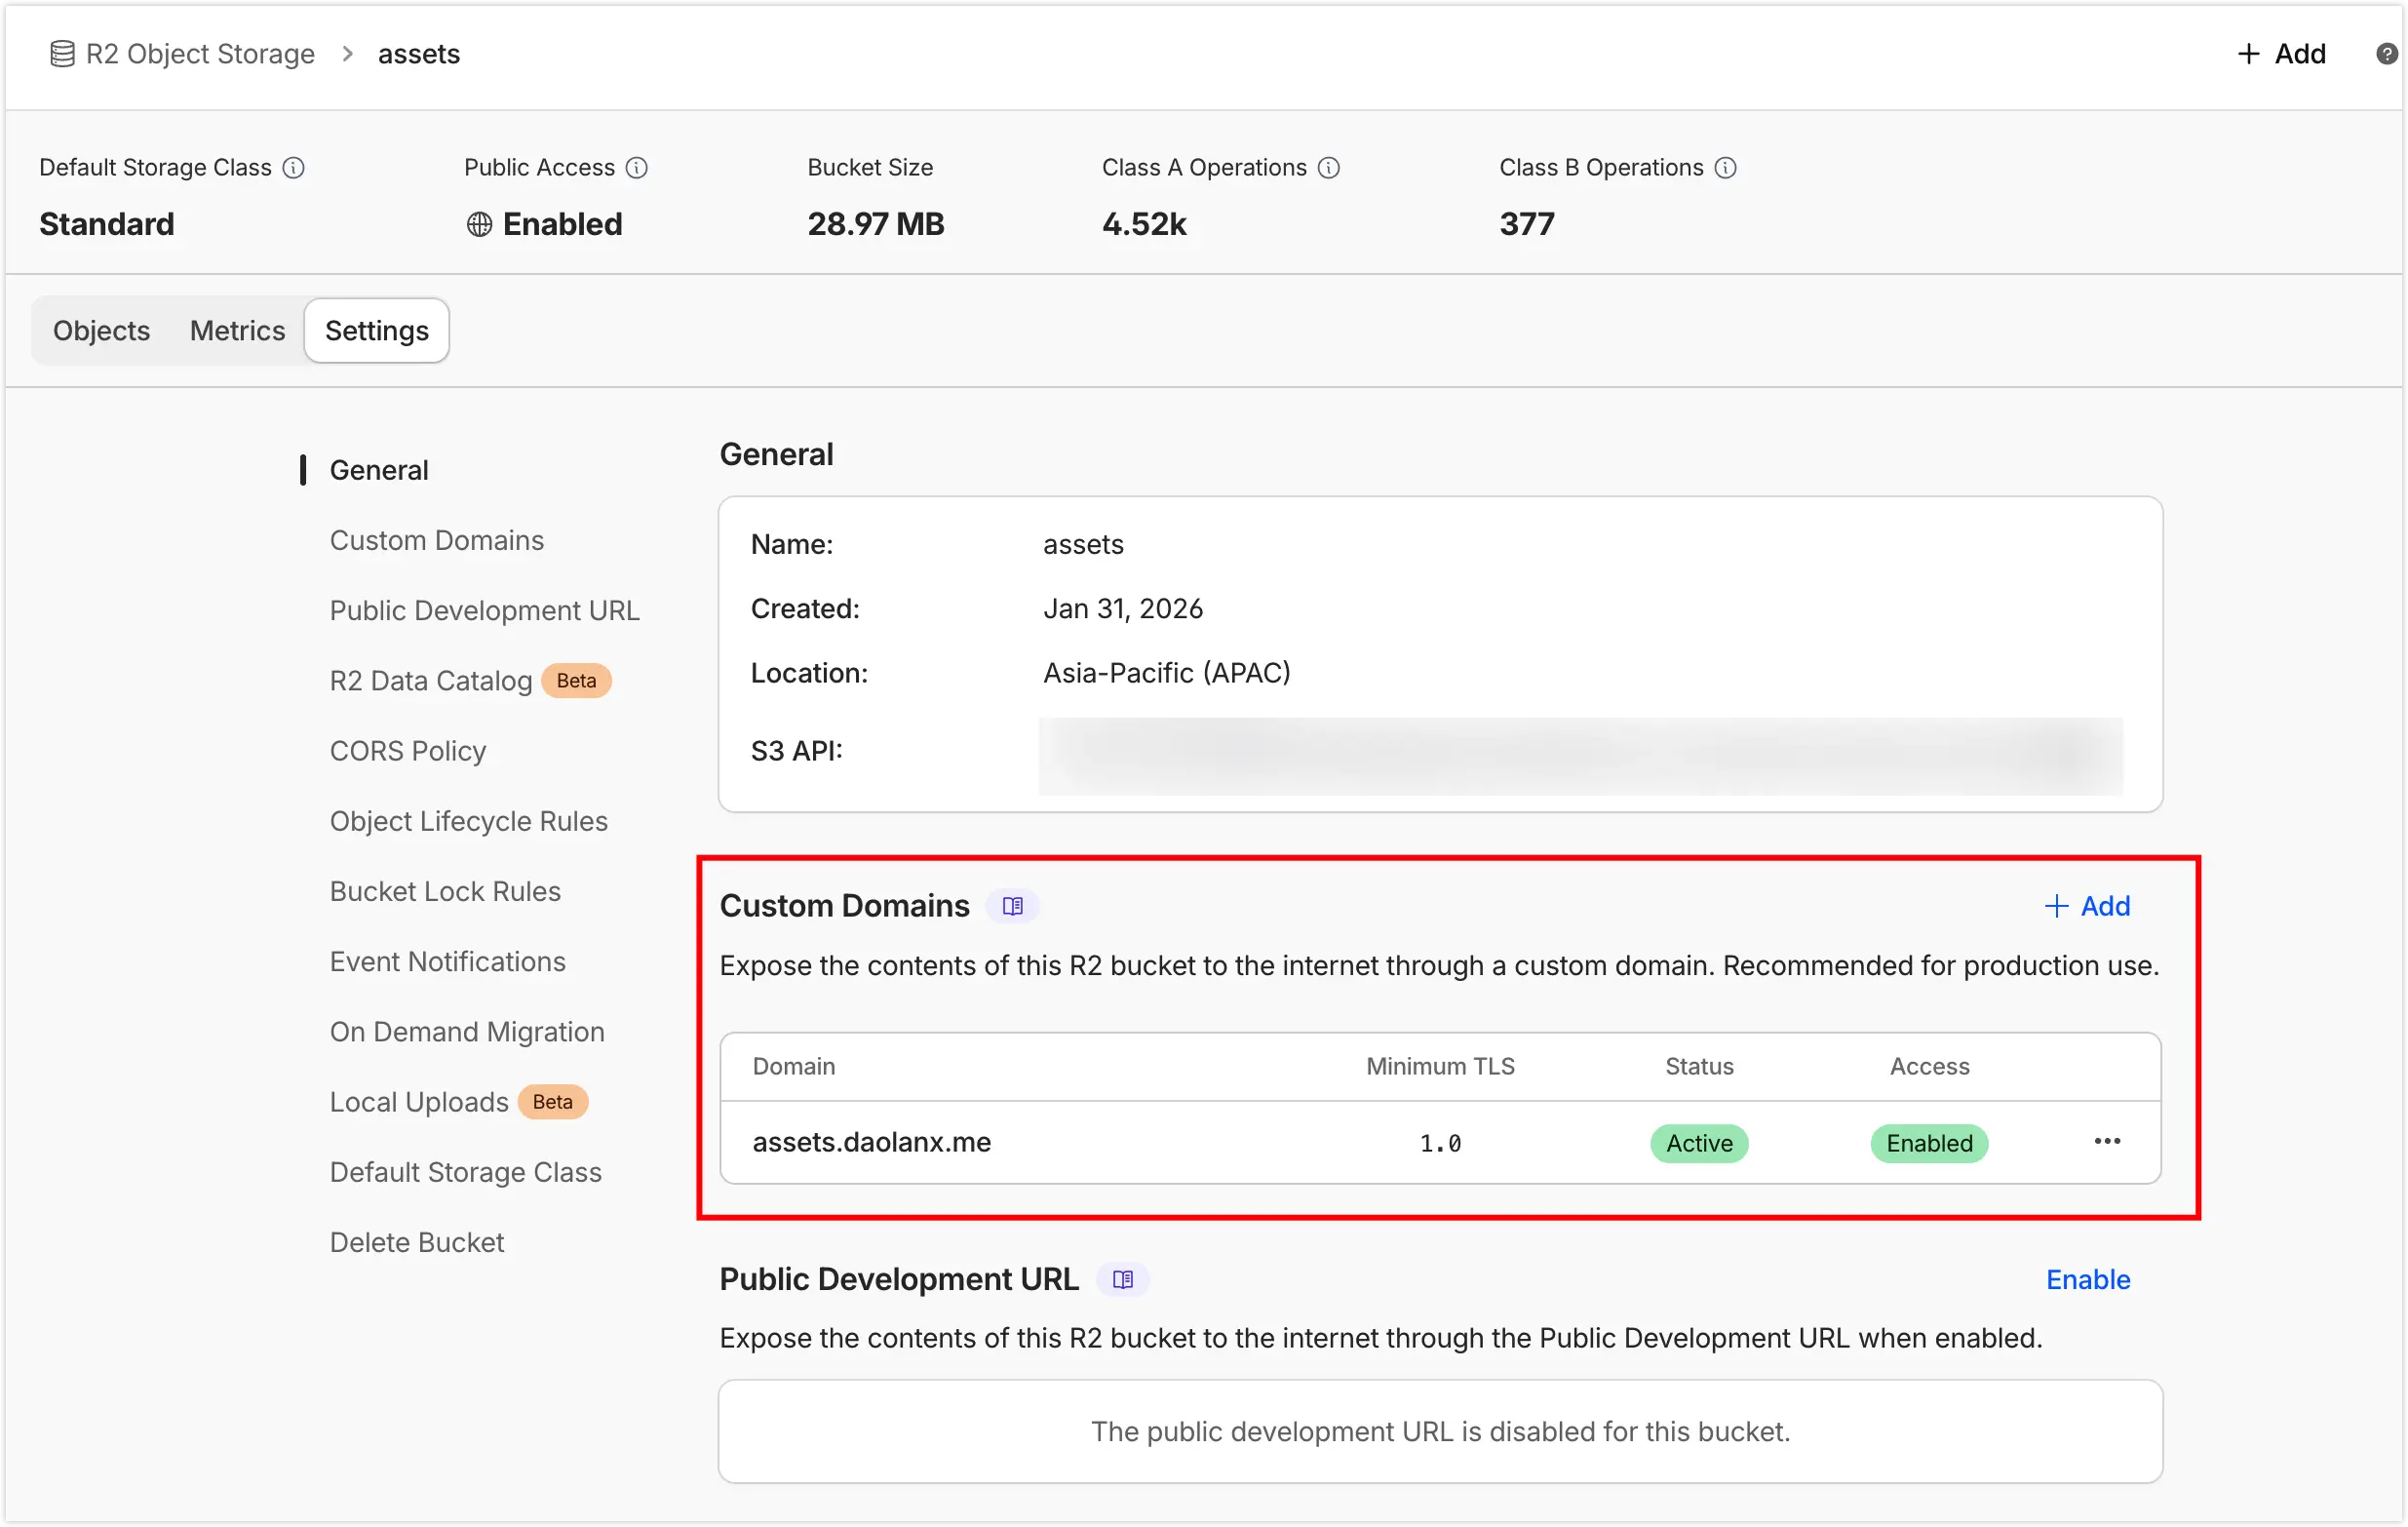
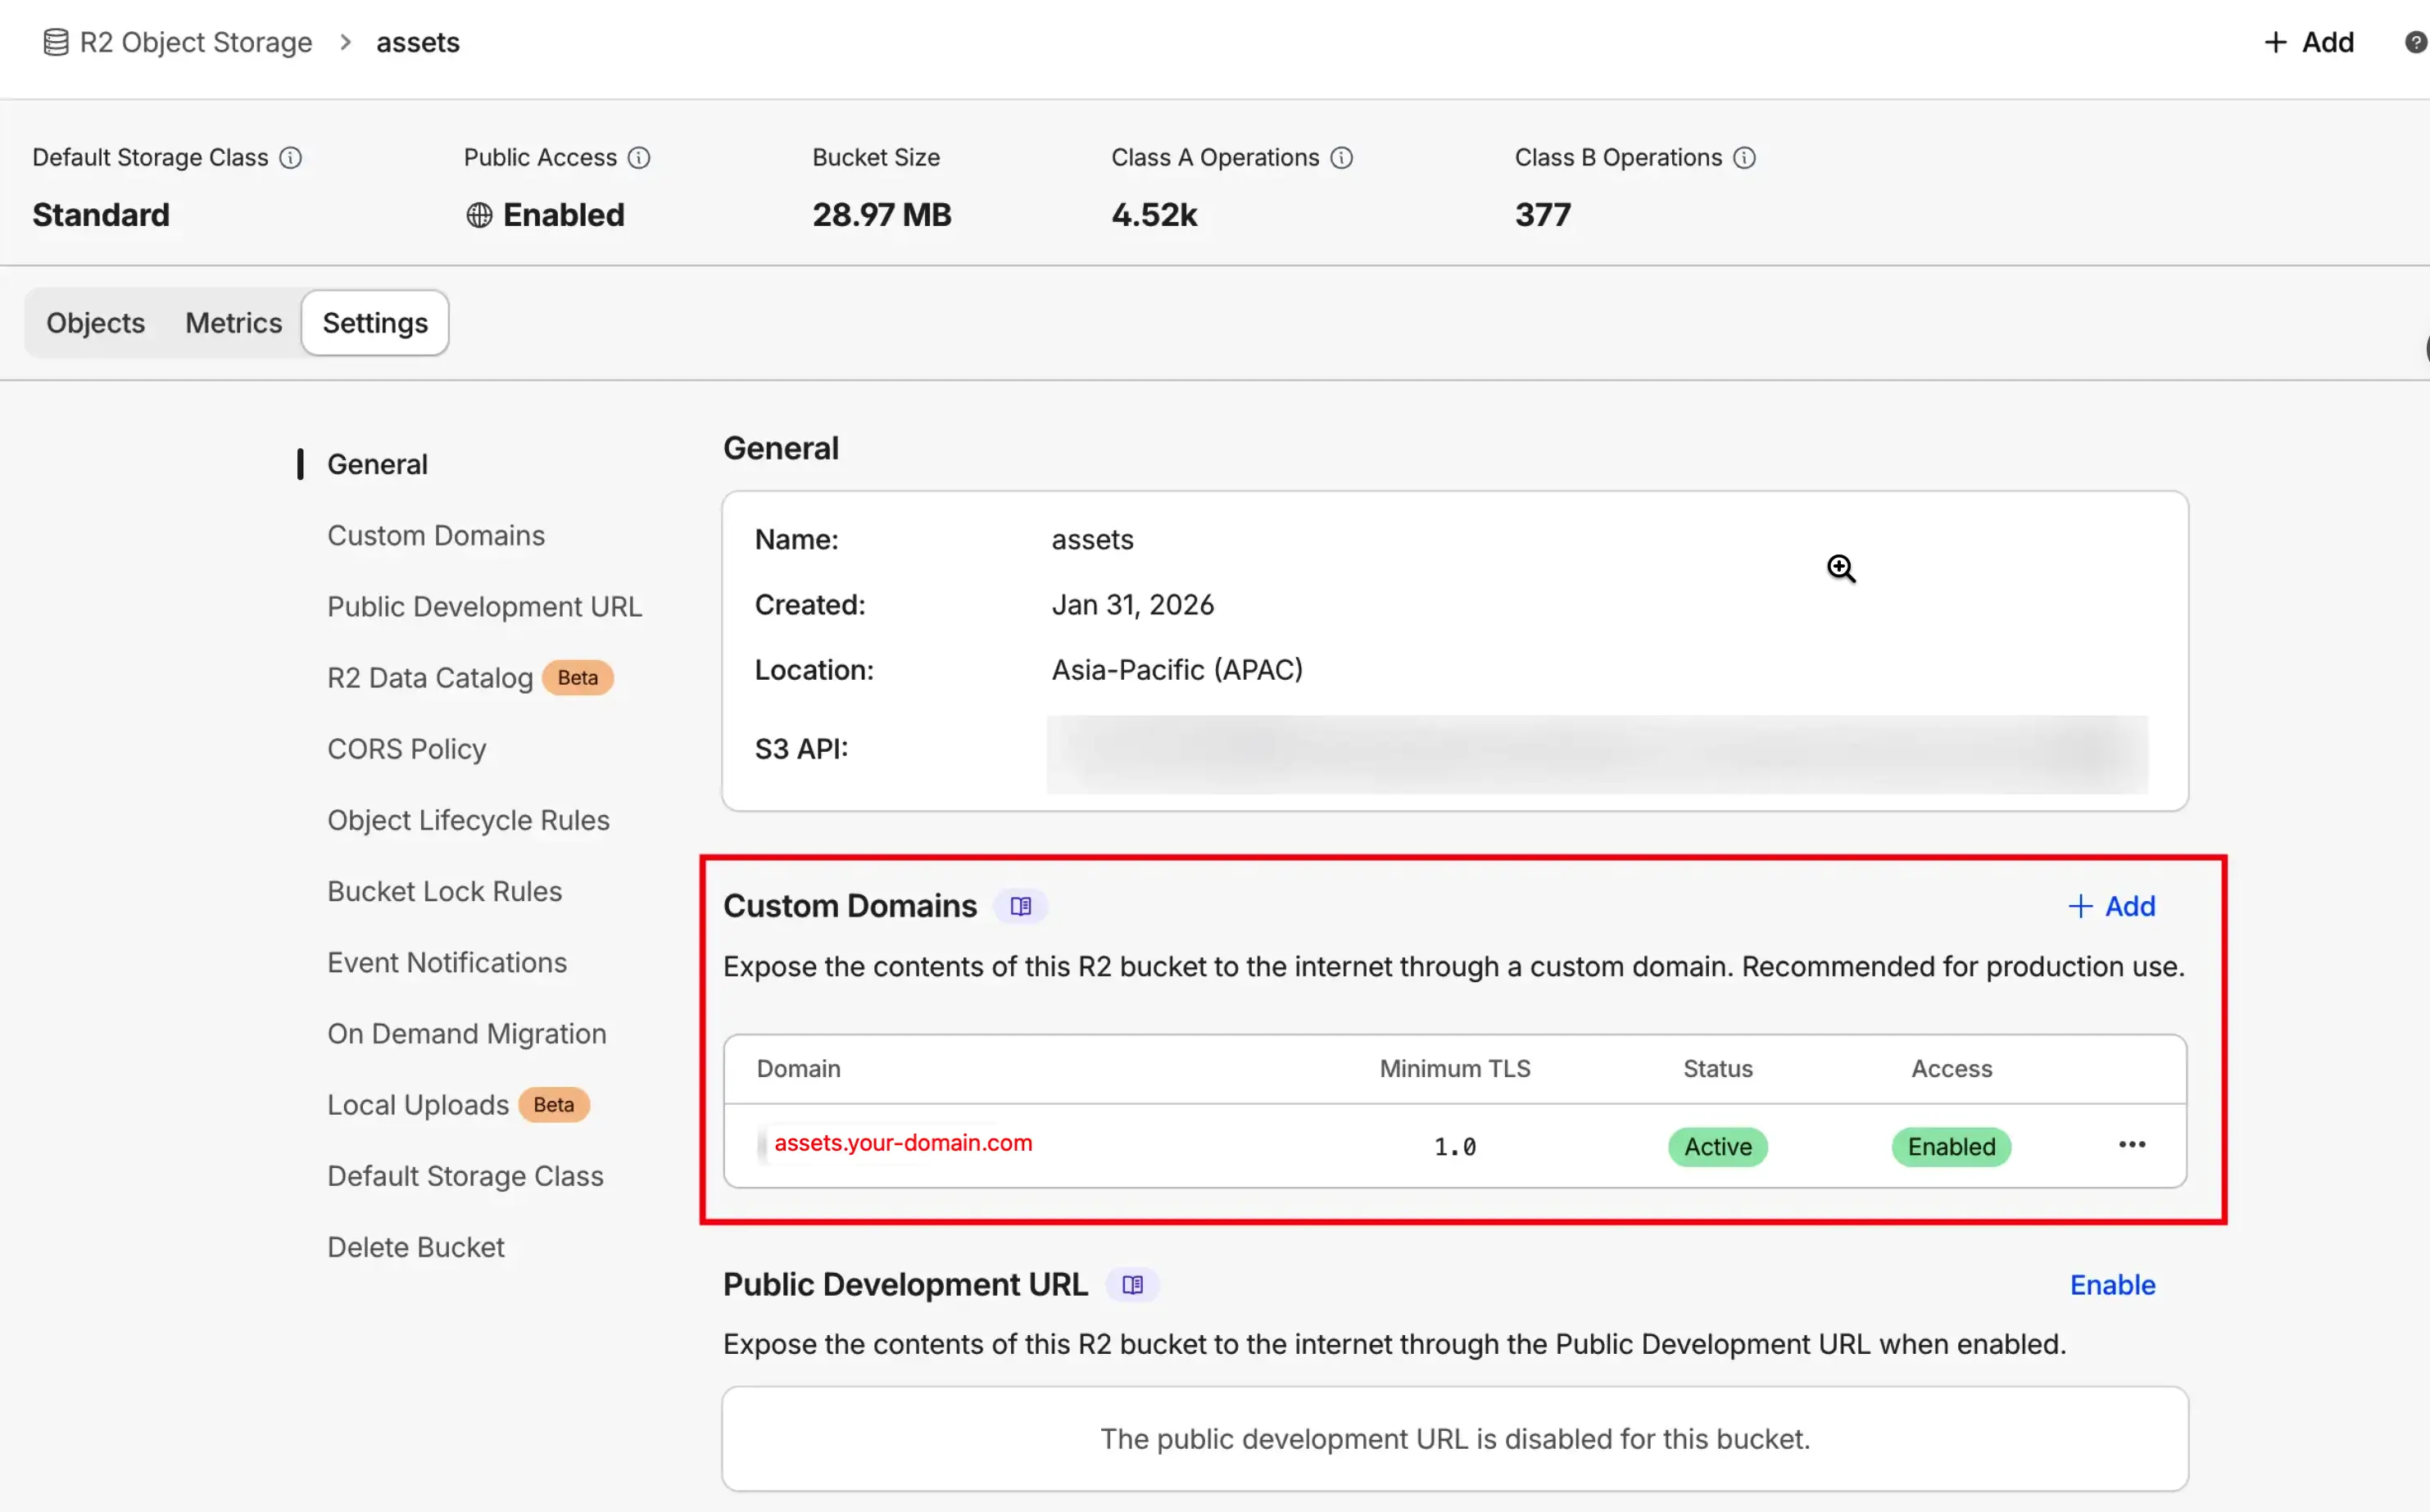
chore(blog): update blog of 'Next.js + Cloudflare R2: Boosting Performance While Slashing Costs' for work.daolanx.me transfer to demo.daolanx.com

diff --git a/src/content/posts/en/post-12.md b/src/content/posts/en/post-12.md
@@ -7,7 +7,7 @@ tags: ["Next.js", "Cloudflare", "CDN", "GitHub", "Performance"]
 description: ""
 ---
 
-Let’s jump straight to the results. My site [work.daolanx.me](https://demo.daolanx.com/) is hosted on Vercel, but all static assets and images are now served via **assets.daolanx.com**.
+First, check out the result. The site is hosted on Vercel, with all static files and images sitting on R2, served through a custom **assets** subdomain.
 
 ![](/images/posts/12/1.webp)
 
@@ -51,7 +51,7 @@ Go to **Settings -> CORS Policy** in your R2 bucket and add the following config
 ```json
 [
   {
-    "AllowedOrigins": ["https://www.yourdomain.com", "http://localhost:3000"],
+    "AllowedOrigins": ["https://www.your-domain.com", "http://localhost:3000"],
     "AllowedMethods": ["GET", "HEAD"],
     "AllowedHeaders": ["*"],
     "ExposeHeaders": [],
@@ -71,7 +71,7 @@ import type { NextConfig } from "next"
 const isProd = process.env.NODE_ENV === "production"
 const nextConfig: NextConfig = {
   // assetPrefix: Routes JS/CSS and other build assets to your CDN
-  assetPrefix: isProd ? "https://your-cdn-domain.com" : undefined,
+  assetPrefix: isProd ? "https://assets.your-domain.com" : undefined,
 
   // Enable custom loader to bypass Vercel's image optimization costs
   images: {
@@ -93,7 +93,7 @@ export default function myImageLoader({ src }: { src: string }) {
     return src
   }
   // Append Cloudflare R2 acceleration domain
-  return `https://your-cdn-domain.com${src}`
+  return `https://assets.your-domain.com${src}`
 }
 ```
 

diff --git a/src/content/posts/zh/post-12.md b/src/content/posts/zh/post-12.md
@@ -7,7 +7,7 @@ tags: ["Next.js", "Cloudflare", "CDN", "GitHub", "性能优化"]
 description: ""
 ---
 
-先直接看效果，我的 [work.daolanx.me](https://demo.daolanx.com/) 站点部署在 Vercel 上面，目前静态资源和图片都是通过 **assets.daolanx.com** 访问。
+先看效果，站点部署在 Vercel 上面，静态资源和图片都是存储在 R2 上，通过 R2 配置的 **assets** 子域名访问。
 
 ![](/images/posts/12/1.webp)
 
@@ -71,7 +71,7 @@ import type { NextConfig } from "next"
 const isProd = process.env.NODE_ENV === "production"
 const nextConfig: NextConfig = {
   // assetPrefix 修改静态资源前缀
-  assetPrefix: isProd ? "https://your-cdn-domain.com" : undefined,
+  assetPrefix: isProd ? "https://assets.your-domain.com" : undefined,
   // 图片采用自定义加载方案
   images: {
     loader: "custom",
@@ -92,7 +92,7 @@ export default function myImageLoader({ src }: { src: string }) {
     return src
   }
   // 拼接 Cloudflare R2 的加速域名
-  return `https://your-cdn-domain.com${src}`
+  return `https://assets.your-domain.com${src}`
 }
 ```
 